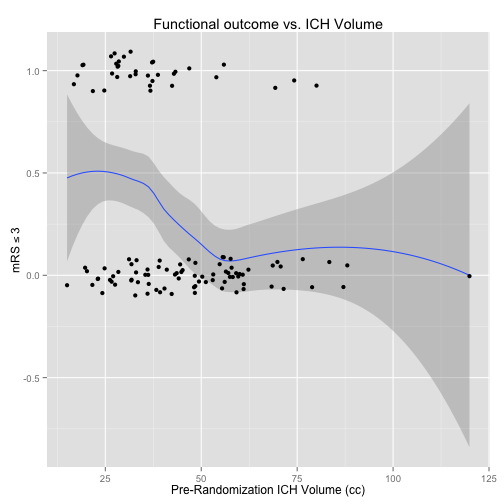
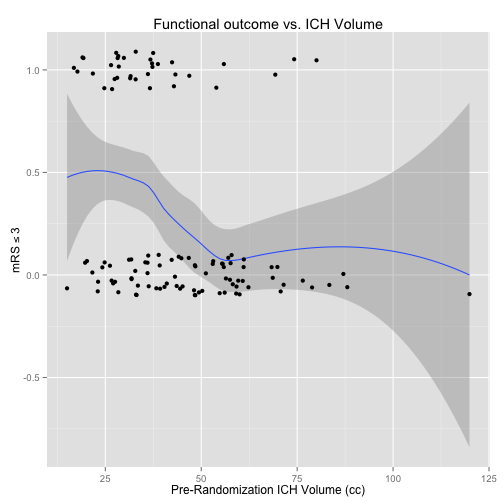
Loess plots

diff --git a/RIP_SlideDeck_2013Oct28.html b/RIP_SlideDeck_2013Oct28.html
@@ -271,13 +271,24 @@ strong {
     <h2>Does Blood matter?</h2>
   </hgroup>
   <article>
-    <p><img src="figure/plot_loess.png" title="plot of chunk plot_loess" alt="plot of chunk plot_loess" style="display: block; margin: auto;" /></p>
+    <p><img src="figure/rplot_loess.png" title="plot of chunk rplot_loess" alt="plot of chunk rplot_loess" style="display: block; margin: auto;" /></p>
 
   </article>
   <!-- Presenter Notes -->
 </slide>
 
       <slide class="" id="slide-16" style="background:;">
+  <hgroup>
+    <h2>Does Blood matter?</h2>
+  </hgroup>
+  <article>
+    <p><img src="figure/rplot_loess_group.png" title="plot of chunk rplot_loess_group" alt="plot of chunk rplot_loess_group" style="display: block; margin: auto;" /></p>
+
+  </article>
+  <!-- Presenter Notes -->
+</slide>
+
+      <slide class="" id="slide-17" style="background:;">
   <hgroup>
     <h2>Does Blood matter?</h2>
   </hgroup>
@@ -296,7 +307,7 @@ strong {
   <!-- Presenter Notes -->
 </slide>
 
-      <slide class="" id="slide-17" style="background:;">
+      <slide class="" id="slide-18" style="background:;">
   <hgroup>
     <h2>Neuroimaging Data - voxels = 3D pixels</h2>
   </hgroup>
@@ -309,14 +320,14 @@ strong {
   <!-- Presenter Notes -->
 </slide>
 
-      <slide class="" id="slide-18" style="background:;">
+      <slide class="" id="slide-19" style="background:;">
   <hgroup>
     <h2>CT is NOT MRI (specifically not T1/T2)</h2>
   </hgroup>
   <article>
     <!-- html table generated in R 3.0.1 by xtable 1.7-1 package -->
 
-<!-- Mon Oct 28 14:07:35 2013 -->
+<!-- Mon Oct 28 14:13:54 2013 -->
 
 <TABLE border=1>
 <TR> <TH>  </TH> <TH> CT </TH> <TH> MRI </TH>  </TR>
@@ -331,7 +342,7 @@ strong {
   <!-- Presenter Notes -->
 </slide>
 
-      <slide class="" id="slide-19" style="background:;">
+      <slide class="" id="slide-20" style="background:;">
   <hgroup>
     <h2>Skull Stripping</h2>
   </hgroup>
@@ -351,27 +362,12 @@ strong {
   <!-- Presenter Notes -->
 </slide>
 
-      <slide class="" id="slide-20" style="background:;">
+      <slide class="" id="slide-21" style="background:;">
   <hgroup>
     <h2>Human + Room + FOV</h2>
   </hgroup>
   <article>
     <p><img src="RIP_SlideDeck_2013Oct28-figure/the_room.png" style="width:1000px; height:600px; display: block; margin: auto;" alt="Blood Clot"></p>
-
-  </article>
-  <!-- Presenter Notes -->
-</slide>
-
-      <slide class="" id="slide-21" style="background:;">
-  <hgroup>
-    <h2>I just want your brain!</h2>
-  </hgroup>
-  <article>
-    <ul>
-<li>19 Scans manually segmented and automatically using BET</li>
-</ul>
-
-<p><img src="RIP_SlideDeck_2013Oct28-figure/Original.png" style="width:550px; height:550px; display: block; margin: auto;" alt="ZOmbies" ></p>
 
   </article>
   <!-- Presenter Notes -->
@@ -386,7 +382,7 @@ strong {
 <li>19 Scans manually segmented and automatically using BET</li>
 </ul>
 
-<p><img src="RIP_SlideDeck_2013Oct28-figure/Skull_Stripped.png" style="width:550px; height:550px; display: block; margin: auto;" alt="ZOmbies" ></p>
+<p><img src="RIP_SlideDeck_2013Oct28-figure/Original.png" style="width:550px; height:550px; display: block; margin: auto;" alt="ZOmbies" ></p>
 
   </article>
   <!-- Presenter Notes -->
@@ -394,10 +390,14 @@ strong {
 
       <slide class="" id="slide-23" style="background:;">
   <hgroup>
-    <h2>Results from 19 Scans</h2>
+    <h2>I just want your brain!</h2>
   </hgroup>
   <article>
-    <p><img src="RIP_SlideDeck_2013Oct28-figure/box1.png" style="width:550px; height:550px; display: block; margin: auto;" alt="Zombies" ></p>
+    <ul>
+<li>19 Scans manually segmented and automatically using BET</li>
+</ul>
+
+<p><img src="RIP_SlideDeck_2013Oct28-figure/Skull_Stripped.png" style="width:550px; height:550px; display: block; margin: auto;" alt="ZOmbies" ></p>
 
   </article>
   <!-- Presenter Notes -->
@@ -408,13 +408,24 @@ strong {
     <h2>Results from 19 Scans</h2>
   </hgroup>
   <article>
-    <p><img src="RIP_SlideDeck_2013Oct28-figure/box2.png" style="width:550px; height:550px; display: block; margin: auto;" alt="ZOmbies" ></p>
+    <p><img src="RIP_SlideDeck_2013Oct28-figure/box1.png" style="width:550px; height:550px; display: block; margin: auto;" alt="Zombies" ></p>
 
   </article>
   <!-- Presenter Notes -->
 </slide>
 
       <slide class="" id="slide-25" style="background:;">
+  <hgroup>
+    <h2>Results from 19 Scans</h2>
+  </hgroup>
+  <article>
+    <p><img src="RIP_SlideDeck_2013Oct28-figure/box2.png" style="width:550px; height:550px; display: block; margin: auto;" alt="ZOmbies" ></p>
+
+  </article>
+  <!-- Presenter Notes -->
+</slide>
+
+      <slide class="" id="slide-26" style="background:;">
   <hgroup>
     <h2>Clot Prediction - data</h2>
   </hgroup>
@@ -433,7 +444,7 @@ strong {
   <!-- Presenter Notes -->
 </slide>
 
-      <slide class="" id="slide-26" style="background:;">
+      <slide class="" id="slide-27" style="background:;">
   <hgroup>
     <h2>Predicting Clot</h2>
   </hgroup>
@@ -454,7 +465,7 @@ strong {
   <!-- Presenter Notes -->
 </slide>
 
-      <slide class="" id="slide-27" style="background:;">
+      <slide class="" id="slide-28" style="background:;">
   <hgroup>
     <h2>Results</h2>
   </hgroup>
@@ -465,7 +476,7 @@ strong {
   <!-- Presenter Notes -->
 </slide>
 
-      <slide class="" id="slide-28" style="background:;">
+      <slide class="" id="slide-29" style="background:;">
   <hgroup>
     <h2>Individual Results</h2>
   </hgroup>
@@ -476,7 +487,7 @@ strong {
   <!-- Presenter Notes -->
 </slide>
 
-      <slide class="" id="slide-29" style="background:;">
+      <slide class="" id="slide-30" style="background:;">
   <hgroup>
     <h2>Conclusions</h2>
   </hgroup>
@@ -501,7 +512,7 @@ strong {
   <!-- Presenter Notes -->
 </slide>
 
-      <slide class="" id="slide-30" style="background:;">
+      <slide class="" id="slide-31" style="background:;">
   <hgroup>
     <h2>Thanks</h2>
   </hgroup>
@@ -518,7 +529,7 @@ strong {
   <!-- Presenter Notes -->
 </slide>
 
-      <slide class="" id="slide-31" style="background:;">
+      <slide class="" id="slide-32" style="background:;">
   <hgroup>
     <h2>Extra Slides</h2>
   </hgroup>
@@ -528,7 +539,7 @@ strong {
   <!-- Presenter Notes -->
 </slide>
 
-      <slide class="" id="slide-32" style="background:;">
+      <slide class="" id="slide-33" style="background:;">
   <hgroup>
     
   </hgroup>
@@ -539,7 +550,7 @@ strong {
   <!-- Presenter Notes -->
 </slide>
 
-      <slide class="" id="slide-33" style="background:;">
+      <slide class="" id="slide-34" style="background:;">
   <hgroup>
     <h2>Ventricular System</h2>
   </hgroup>
@@ -551,7 +562,7 @@ strong {
   <!-- Presenter Notes -->
 </slide>
 
-      <slide class="" id="slide-34" style="background:;">
+      <slide class="" id="slide-35" style="background:;">
   <hgroup>
     <h2>An Example CLEAR Patient</h2>
   </hgroup>
@@ -562,7 +573,7 @@ strong {
   <!-- Presenter Notes -->
 </slide>
 
-      <slide class="" id="slide-35" style="background:;">
+      <slide class="" id="slide-36" style="background:;">
   <hgroup>
     
   </hgroup>

diff --git a/RIP_SlideDeck_2013Oct28.md b/RIP_SlideDeck_2013Oct28.md
@@ -175,9 +175,22 @@ From Italian Longitudinal Study of Aging (ILSA) (**N =5,632** individuals aged 6
 
 
 
+
+
+
+
 ## Does Blood matter?
 
-<img src="figure/plot_loess.png" title="plot of chunk plot_loess" alt="plot of chunk plot_loess" style="display: block; margin: auto;" />
+<img src="figure/rplot_loess.png" title="plot of chunk rplot_loess" alt="plot of chunk rplot_loess" style="display: block; margin: auto;" />
+
+---
+
+
+
+
+## Does Blood matter?
+
+<img src="figure/rplot_loess_group.png" title="plot of chunk rplot_loess_group" alt="plot of chunk rplot_loess_group" style="display: block; margin: auto;" />
 
 ---
 
@@ -205,7 +218,7 @@ From Italian Longitudinal Study of Aging (ILSA) (**N =5,632** individuals aged 6
 ## CT is NOT MRI (specifically not T1/T2)
 
 <!-- html table generated in R 3.0.1 by xtable 1.7-1 package -->
-<!-- Mon Oct 28 14:07:35 2013 -->
+<!-- Mon Oct 28 14:13:54 2013 -->
 <TABLE border=1>
 <TR> <TH>  </TH> <TH> CT </TH> <TH> MRI </TH>  </TR>
   <TR> <TD align="right"> Domain </TD> <TD> Diagnostic </TD> <TD> Diagnostic/Research </TD> </TR>
